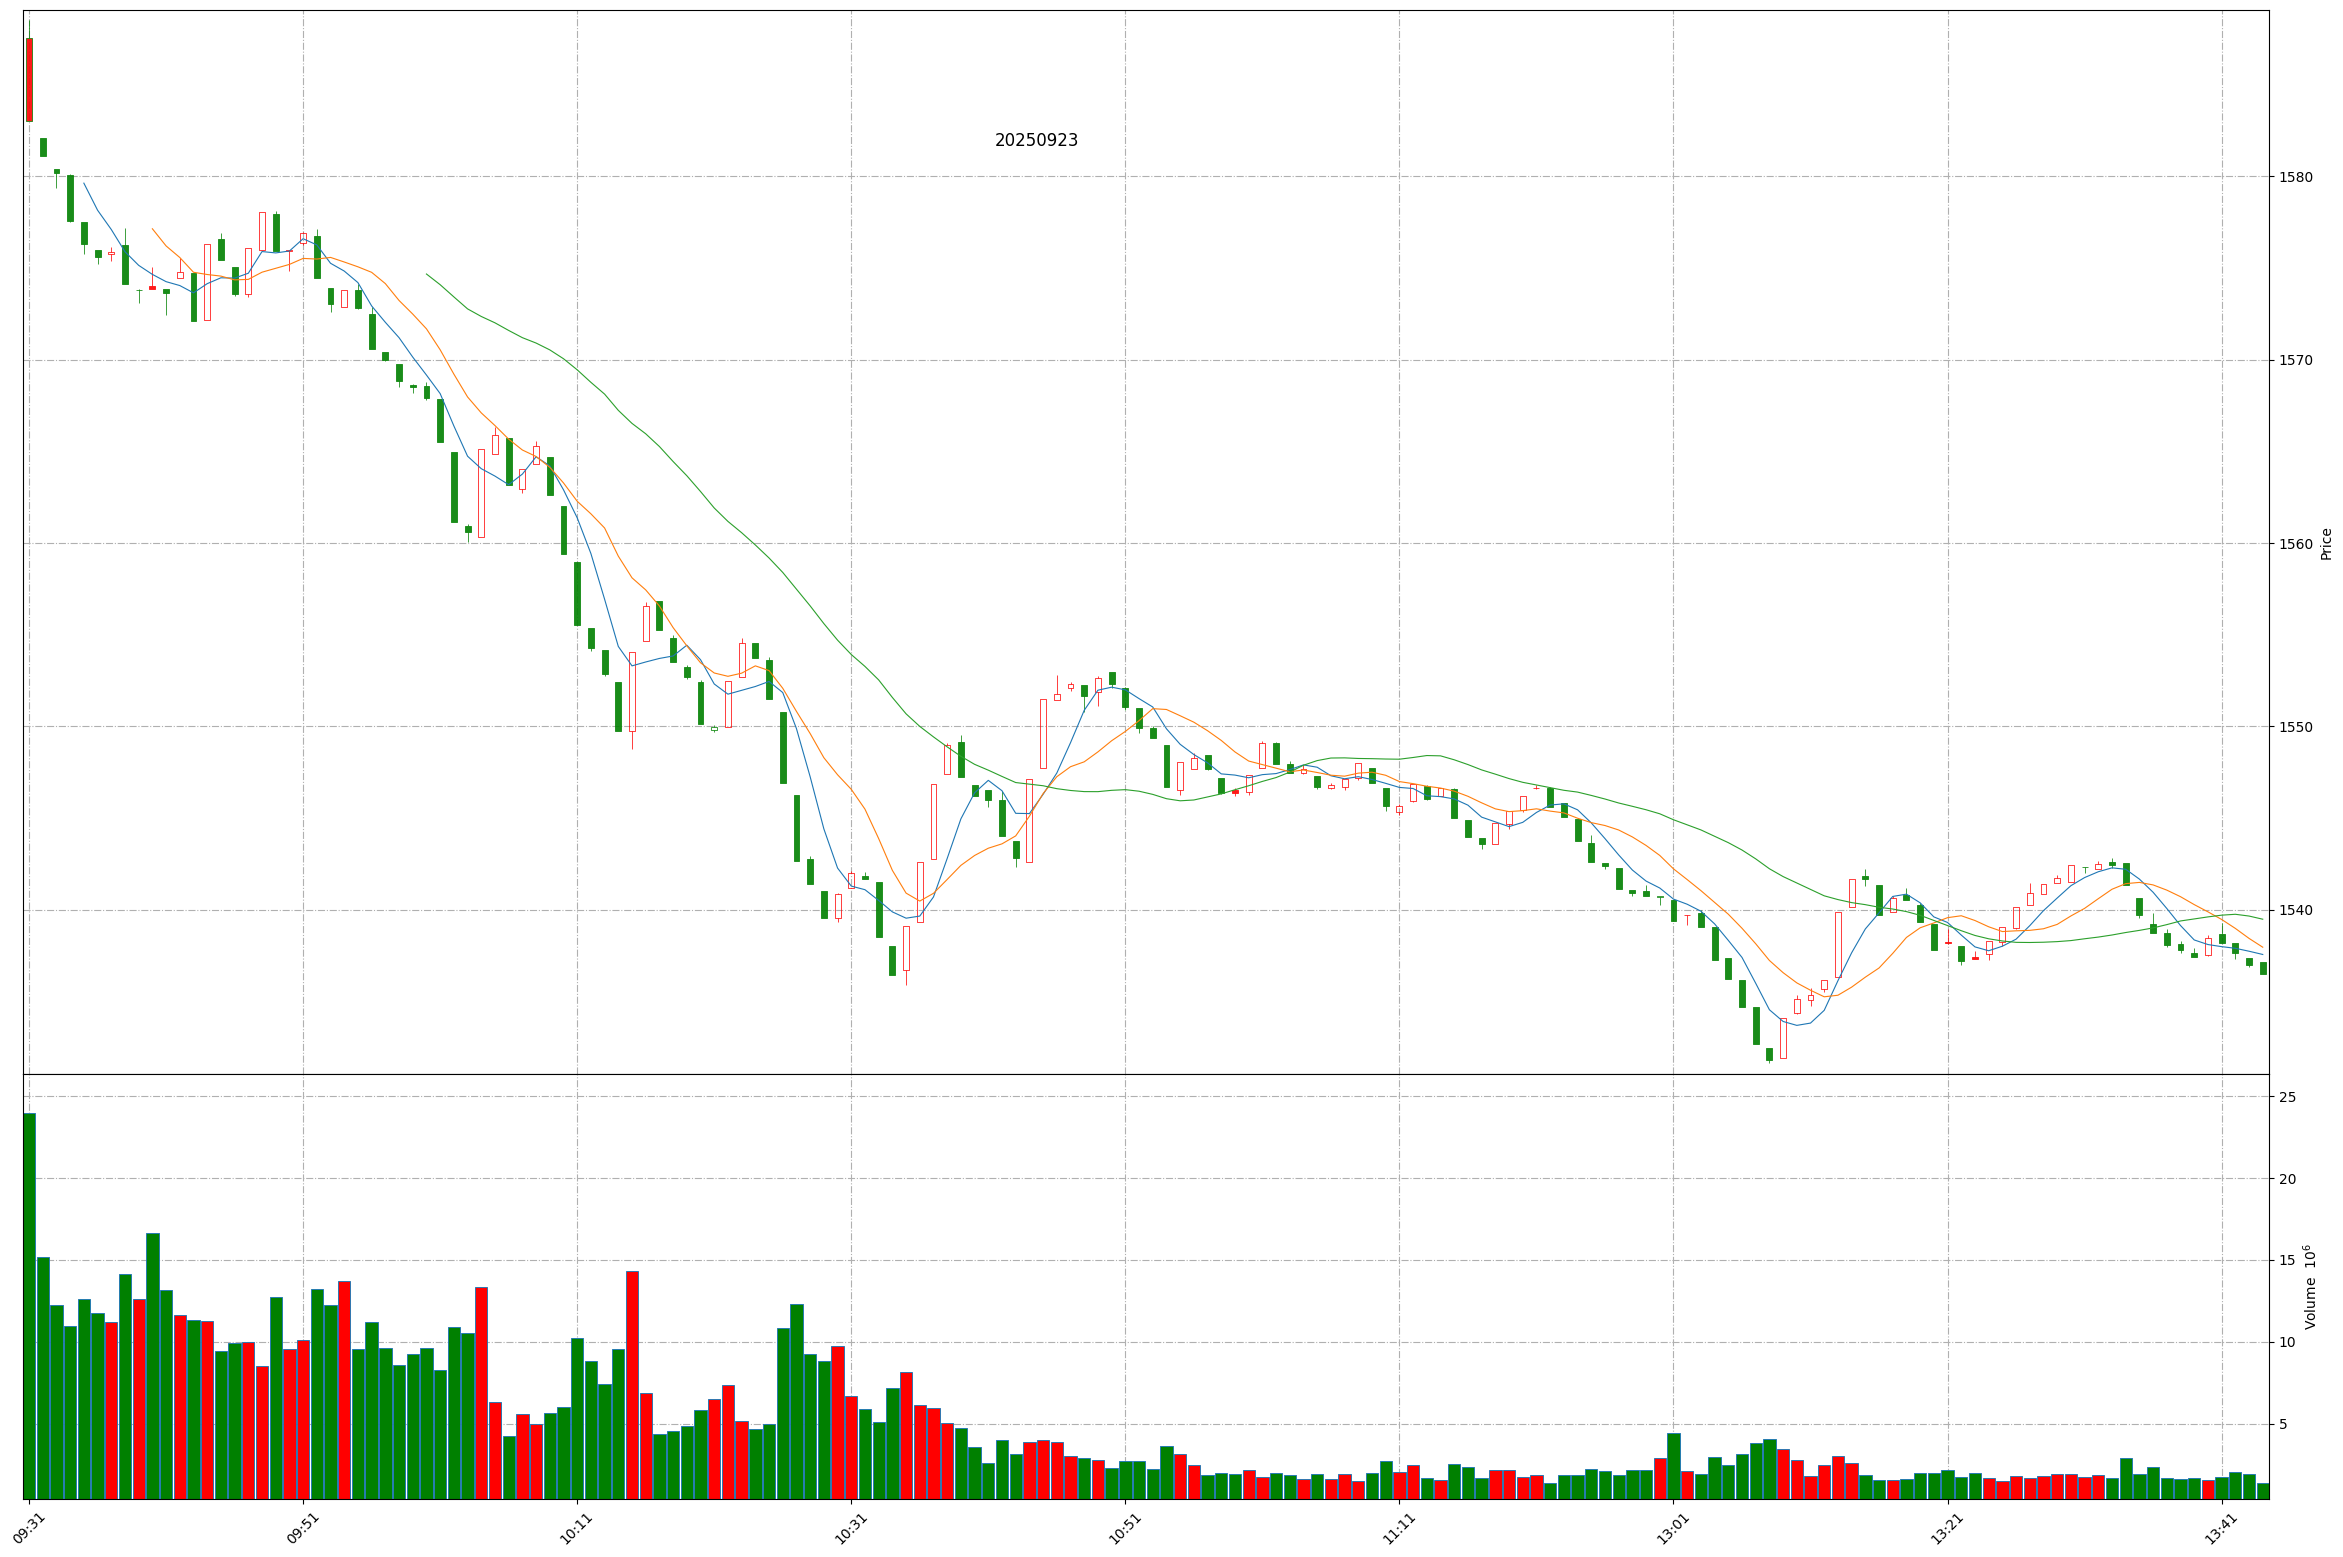
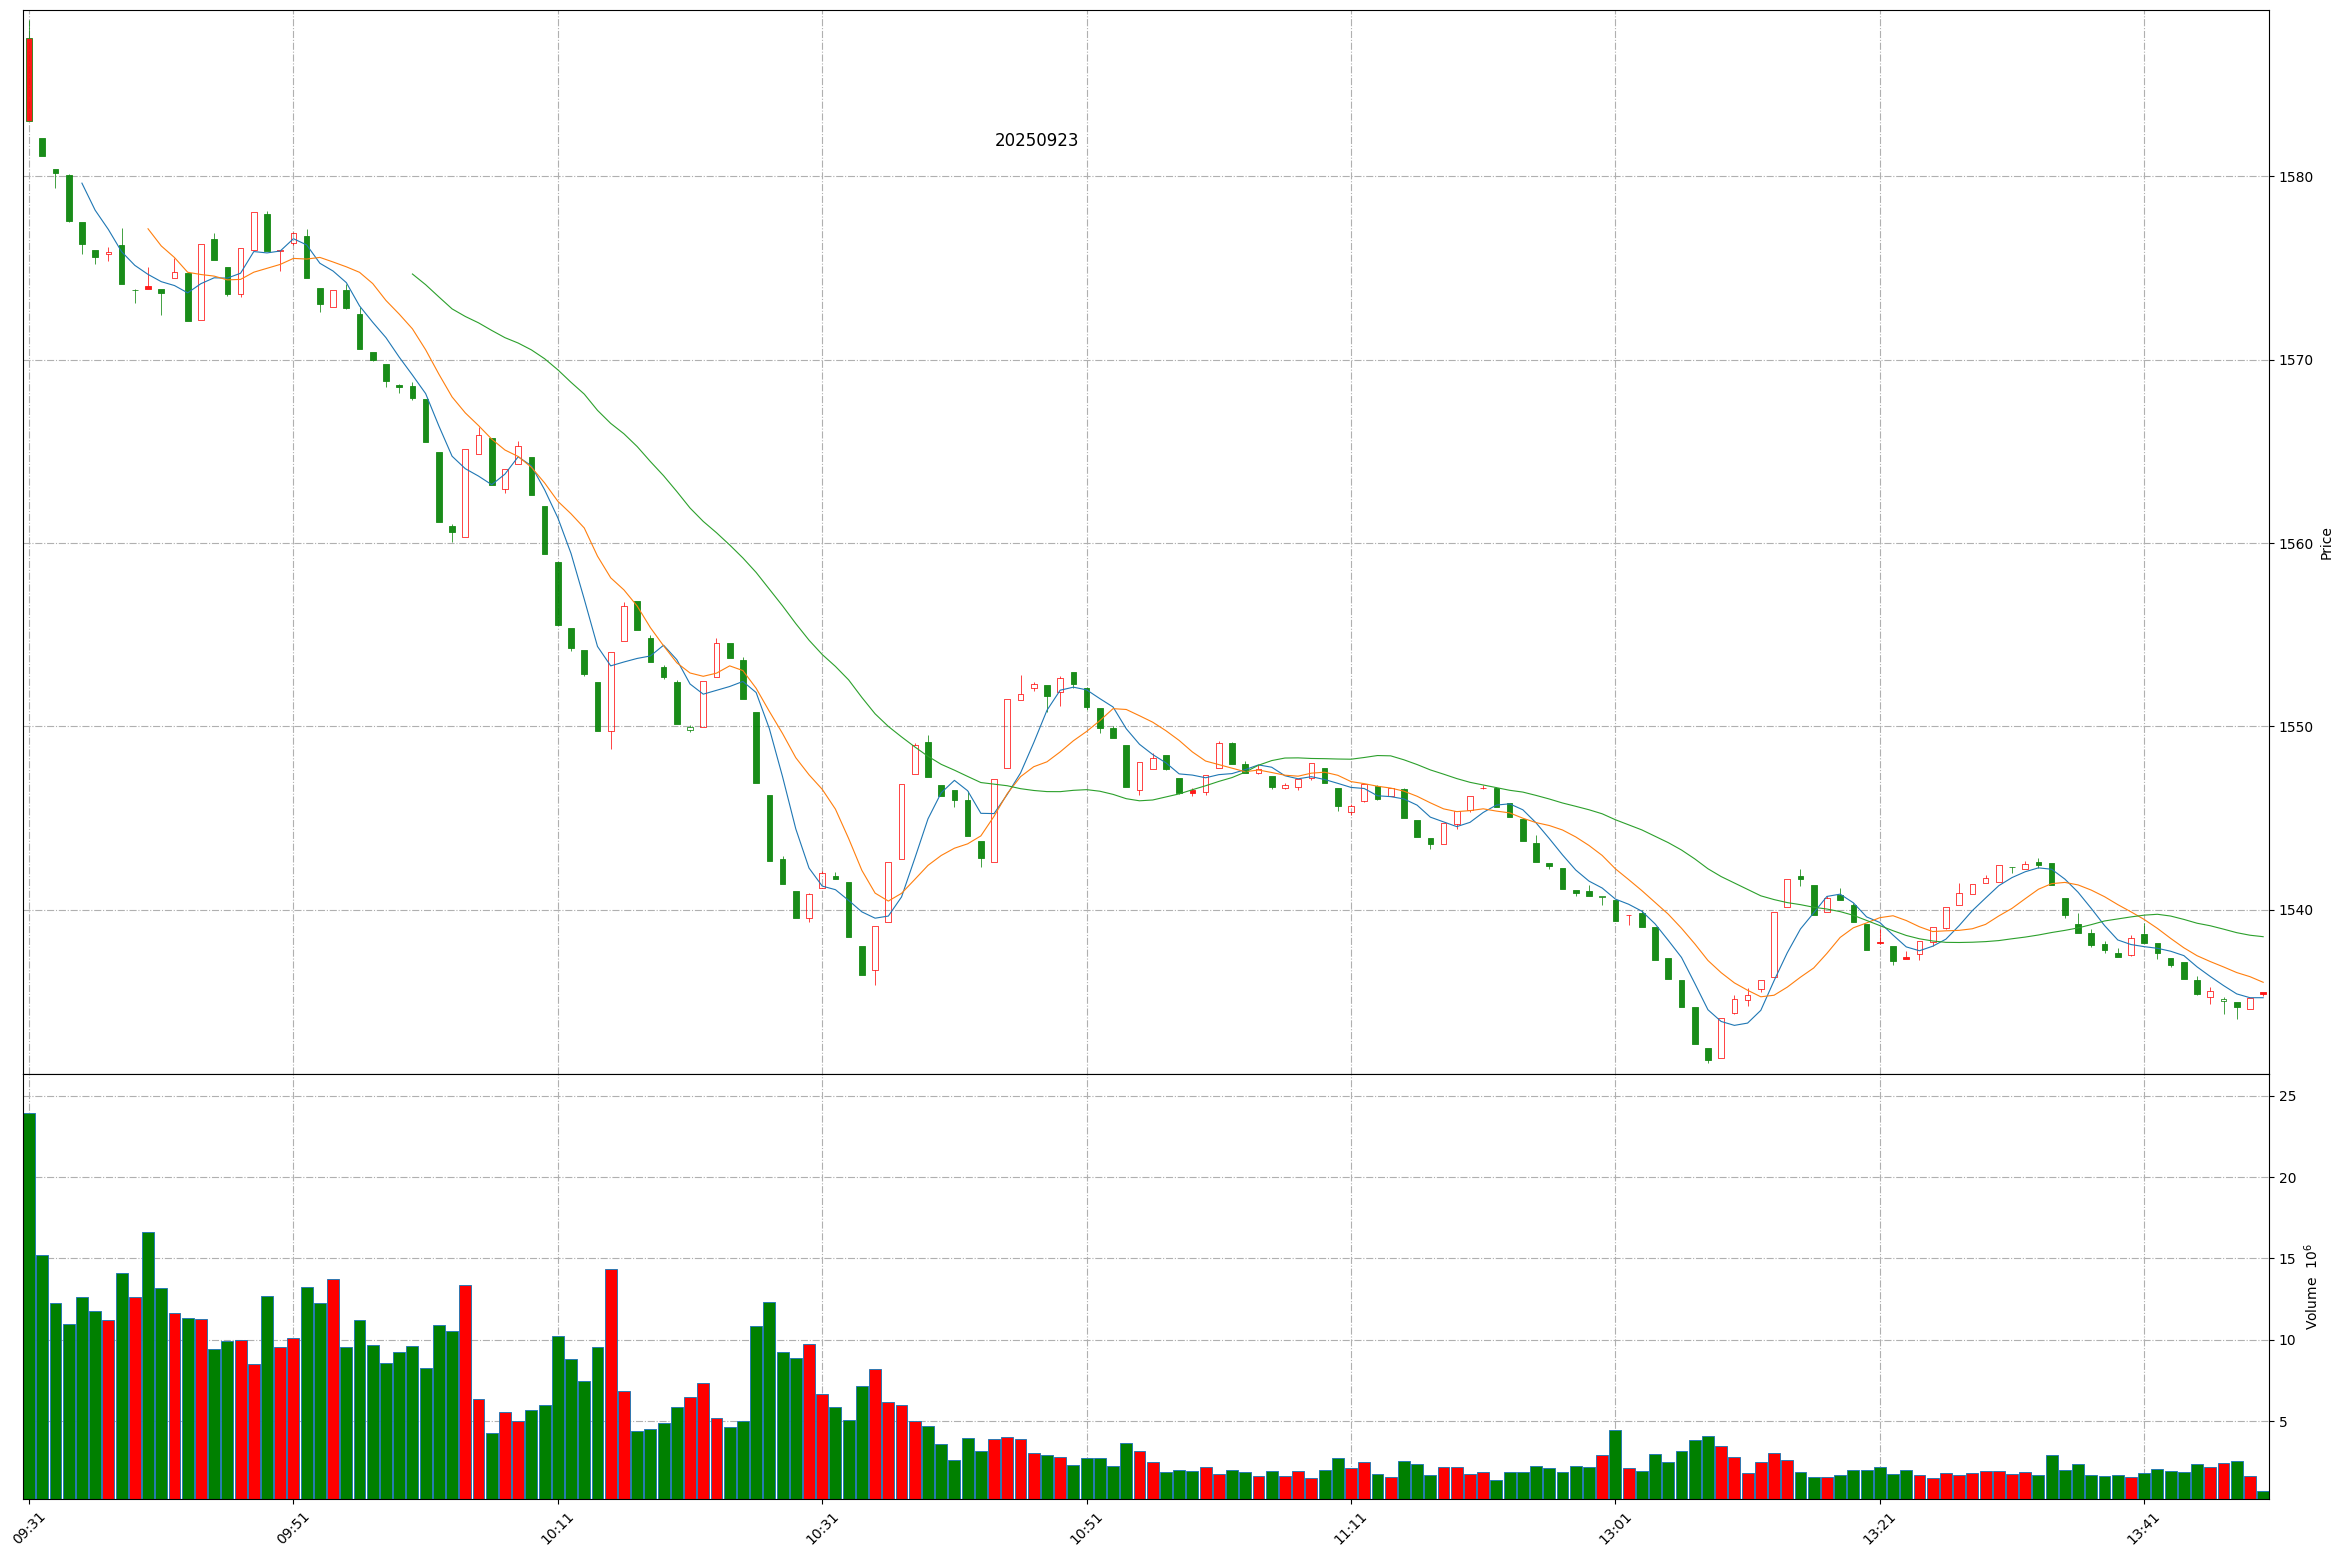
Github action update at 2025-09-23 13:49:41.

Changed region(s): [[0.0, 0.8015, 0.9659, 0.9865], [0.0312, 0.1233, 0.7789, 0.6782], [0.7478, 0.5549, 0.9659, 0.6474]]

diff --git a/README.md b/README.md
@@ -1,11 +1,11 @@
 
 # Daily-A-share-market-quotes 每日 A 股指数（5min 更新）- 20250923
 
-### 上证指数 20250923 13:44
+### 上证指数 20250923 13:49
 ![](./fig/2025/9/20250923-sh000001.png)
 
-### 深证成指 20250923 13:44
+### 深证成指 20250923 13:49
 ![](./fig/2025/9/20250923-sz399001.png)
 
-### 北证50 20250923 13:44
+### 北证50 20250923 13:49
 ![](./fig/2025/9/20250923-bj899050.png)
